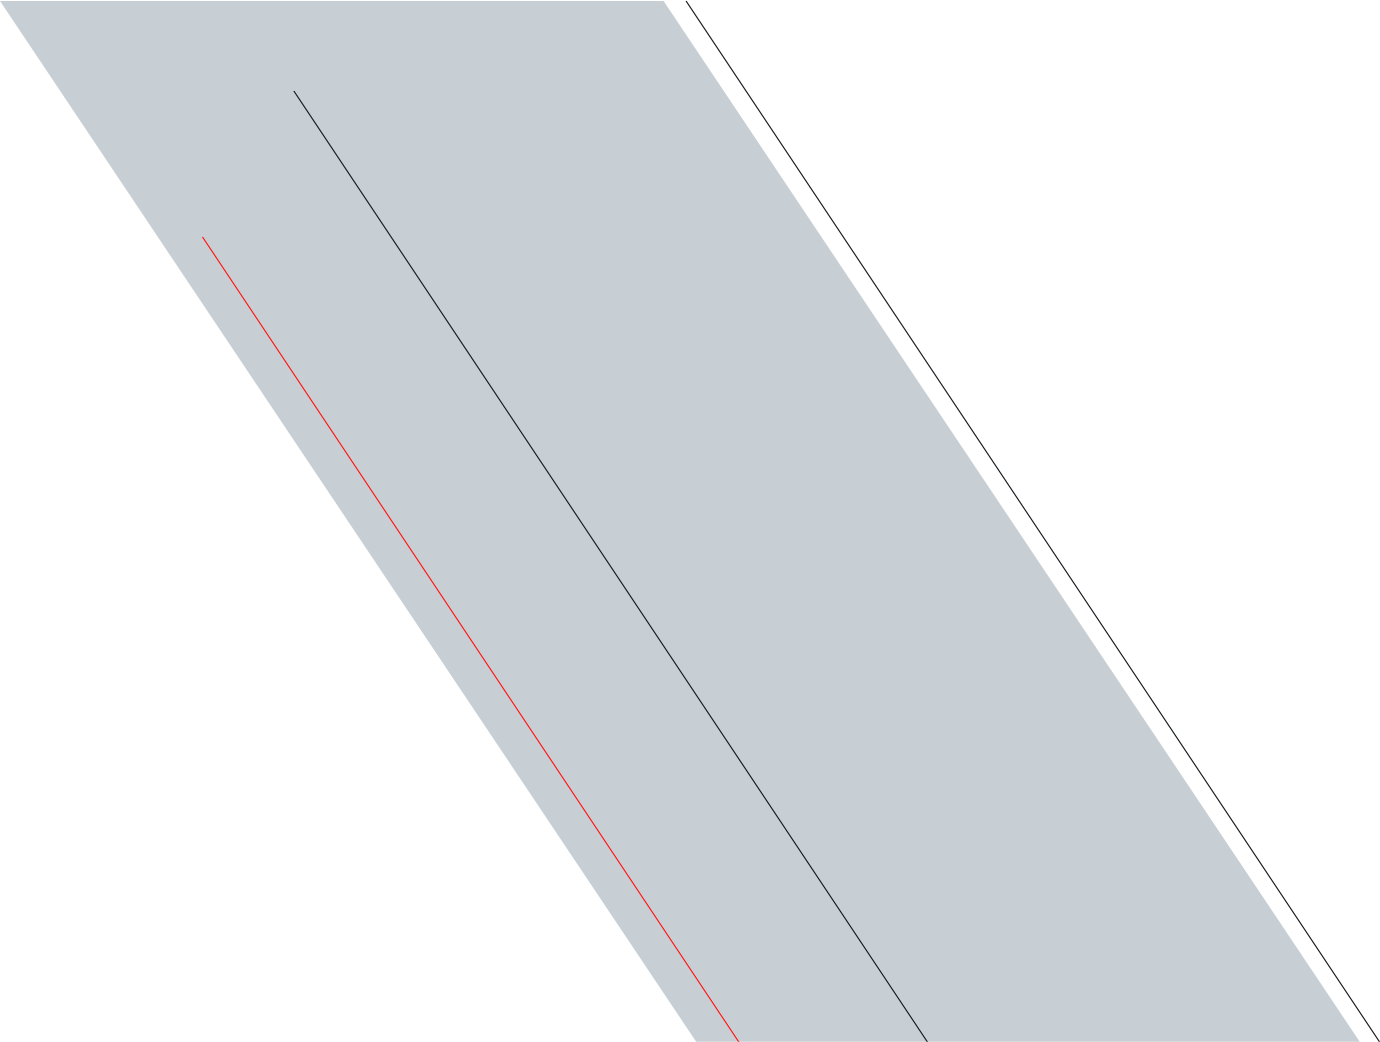
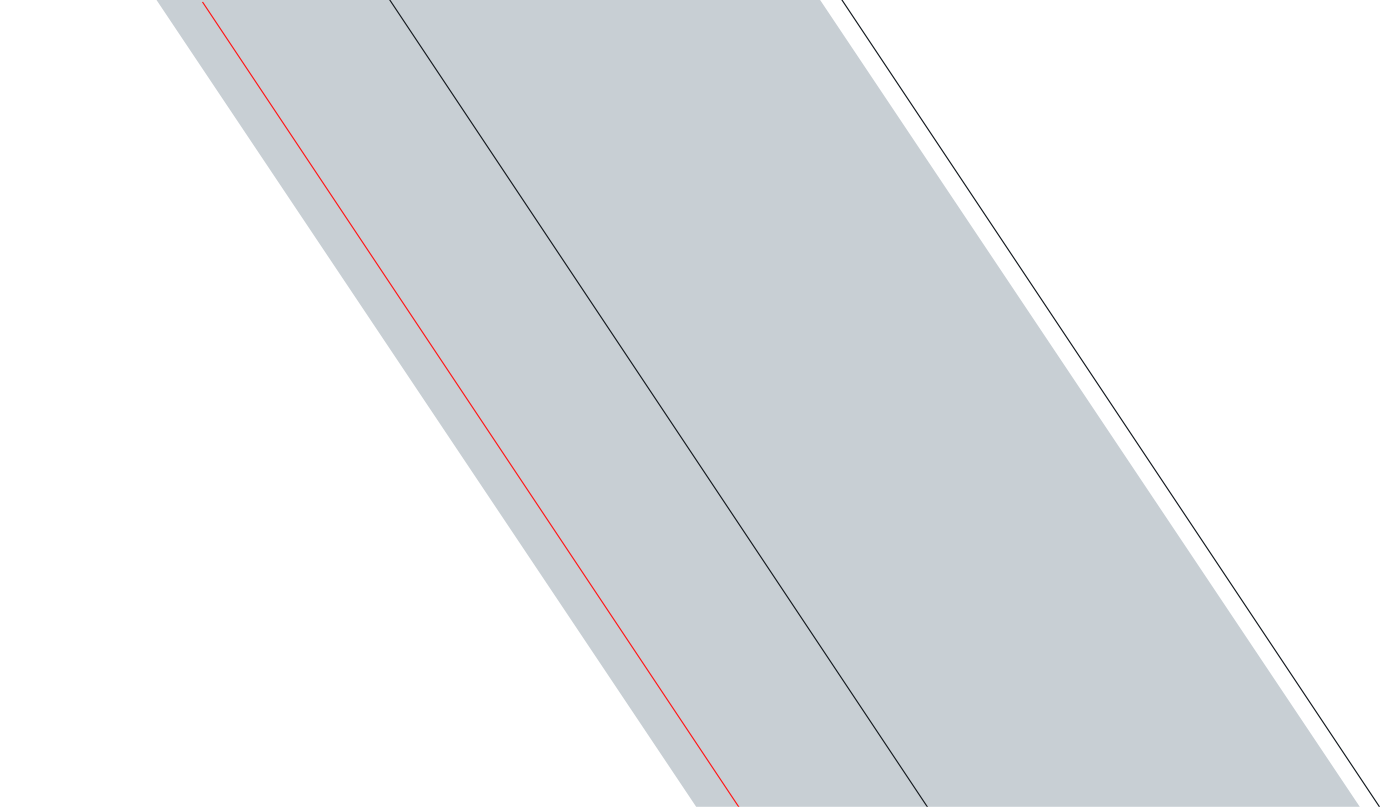
elev

diff --git a/js/common.js b/js/common.js
@@ -13,38 +13,68 @@ $(function(){
         prevArrow: '<i class="fa fa-chevron-left" aria-hidden="true"></i>',
         nextArrow: '<i class="fa fa-chevron-right" aria-hidden="true"></i>'
 	});
-	if($(window).width() > 1024)
-{
 
-   $('body').parallax({
+// if($(window).width() > 1024)
+// {
 
-      'elements': [
-        {
-          'selector': '.paralax_block',
-          'properties': {
-            'x': {
-              'right': {
-                'initial': 150,
-                'multiplier': 0.04,
-                'unit': 'px',
-                'invert': false
-              }
-            },
-            'y': {
-              'top': {
-                'initial': 54,
-                'multiplier': 0.02,
-                'unit': 'px',
-                'invert': false
-              }
-            }
-          }
-        }
-      ]
-    });
+//    $('body').parallax({
 
-} else {
-   // change functionality for larger screens
-}
+//       'elements': [
+//         {
+//           'selector': '.paralax_block',
+//           'properties': {
+//             'x': {
+//               'right': {
+//                 'initial': 54,
+//                 'multiplier': 0.02,
+//                 'unit': 'px',
+//                 'invert': false
+//               }
+//             },
+//             'y': {
+//               'top': {
+//                 'initial': 54,
+//                 'multiplier': 0.04,
+//                 'unit': 'px',
+//                 'invert': false
+//               }
+//             }
+//           }
+//         }
+//       ]
+//     });
 
+// } else {
+//    // change functionality for larger screens
+// }
+// $(window).scroll(function() {
+// 	$('.paralax_block').each(function(){
+// 		var $bgobj = $(this);
+// 		$bgobj.css({ 'left': '1%' });
+// 	});
+// });
 });
+// $(document).ready(function(){
+// 	// Кешируем объект окна
+// 	$window = $(window);
+                
+//    $('.paralax_block').each(function(){
+//      var $bgobj = $(this); // Назначаем объект
+                    
+//       $(window).scroll(function() {
+                    
+// 		// Прокручиваем фон со скоростью var.
+// 		// Значение yPos отрицательное, так как прокручивание осуществляется вверх!
+// 		var yPos = ($window.scrollTop() / $bgobj.data(900)); 
+		
+// 		// Размещаем все вместе в конечной точке
+// 		var coords = '50% '+ yPos + 'px';
+
+// 		// Смещаем фон
+// 		$bgobj.css({ left: coords });
+		
+// 	}); 
+
+//  });	
+
+// }); 

diff --git a/css/style.css b/css/style.css
@@ -53,12 +53,16 @@ html {
 
 body {
   background: #f6f5f5;
-  position: relative; }
+  position: relative;
+  overflow-x: hidden; }
 
 .paralax_block {
   position: absolute;
   z-index: -99;
-  left: -20%; }
+  height: 1100px;
+  width: 2000px;
+  left: -40%;
+  background: url(../img/bg_abs.png) left calc(-211px - 87px) top calc(50%)/auto auto no-repeat fixed; }
 
 .container {
   max-width: 955px;
@@ -420,17 +424,38 @@ header {
       -ms-flex-pack: center;
           justify-content: center; }
   #projects .proj_wrap .proj_list {
-    width: 100%; }
+    width: 100%;
+    position: relative; }
+    #projects .proj_wrap .proj_list:hover .hov_proj {
+      display: block; }
+    #projects .proj_wrap .proj_list .hov_proj {
+      position: absolute;
+      display: none;
+      top: 0px;
+      left: 0;
+      right: 0;
+      bottom: 5px;
+      background: rgba(0, 0, 0, 0.5); }
+      #projects .proj_wrap .proj_list .hov_proj img {
+        text-align: center;
+        position: absolute;
+        top: 50%;
+        left: 50%;
+        -webkit-transform: translate(-50%, -50%);
+                transform: translate(-50%, -50%); }
     #projects .proj_wrap .proj_list .proj_list__img {
       width: 100%; }
       #projects .proj_wrap .proj_list .proj_list__img img {
         width: 100%;
-        height: auto; }
+        height: auto;
+        border-bottom: 3px solid #ff1516; }
 
-#about .about_wrap {
-  display: -webkit-box;
-  display: -ms-flexbox;
-  display: flex; }
+#about {
+  border-top: 3px solid red; }
+  #about .about_wrap {
+    display: -webkit-box;
+    display: -ms-flexbox;
+    display: flex; }
 
 #skills {
   background: #f6f5f5;

diff --git a/sass/style.sass b/sass/style.sass
@@ -64,12 +64,19 @@ html
 // img
 // 	max-width: 100%
 body
-	background: #f6f5f5
+	background:  #f6f5f5
 	position: relative
+	overflow-x: hidden
+	// background: url(../img/bg_abs.png) left -211px top calc(50% + 87px) / auto auto no-repeat fixed, #f6f5f5
+	
 .paralax_block
 	position: absolute
 	z-index: -99
-	left: -20%
+	height: 1100px
+	width: 2000px
+	left: -40%
+	background: url(../img/bg_abs.png) left calc(-211px - 87px) top calc(50%) / auto auto no-repeat fixed
+	// background-attachment: fixed
 	// height: 
 	// background: url(../img/bg_abs.png)
 .container
@@ -414,6 +421,7 @@ header
 				border: 0
 				cursor: pointer
 #projects
+	// border-bottom: 3px solid #ff1516
 	h2
 		color: #000000
 		font-family: 'Montserrat', sans-serif
@@ -425,14 +433,42 @@ header
 	.proj_wrap
 		display: flex
 		justify-content: center
+		// border-bottom: 3px solid #ff1516
+
 		.proj_list
 			width: 100%
+			position: relative
+			// border-bottom: 3px solid #ff1516
+			// height: 100%
+			// border-bottom: 3px solid red
+			&:hover
+				.hov_proj
+					display: block
+					
+			.hov_proj
+				position: absolute
+				display: none
+				top: 0px
+				left: 0
+				right: 0
+				bottom: 5px
+				background: rgba(0, 0, 0, .5)
+				img
+					text-align: center
+					position: absolute
+					top: 50%
+					left: 50%
+					transform: translate(-50%, -50%)
 			.proj_list__img
 				width: 100%
+				// height: 295.8px
+				// border-bottom: 3px solid #ff1516
 				img
 					width: 100%
 					height: auto
+					border-bottom: 3px solid #ff1516
 #about
+	border-top: 3px solid red
 	.about_wrap
 		display: flex																	
 #skills

diff --git a/index2.html b/index2.html
@@ -11,7 +11,7 @@
 </head>
 <body>
 	<div class="paralax_block">
-		<img src="img/bg_abs.png">
+		<!-- <img src="img/bg_abs.png"> -->
 	</div>
 	<header>
 		<div class="logo">
@@ -202,21 +202,30 @@
 	<section id="projects">
 		<h2>Выполненные проекты "под ключ"</h2>
 		<div class="proj_wrap">
-			<div class="proj_list">
+			<a class="proj_list" href="">
 				<div class="proj_list__img">
 					<img src="img/ls.png" alt="">
 				</div>
-			</div>
-			<div class="proj_list">
+				<div class="hov_proj">
+					<img src="img/eye.png">
+				</div>
+			</a>
+			<a class="proj_list" href="">
 				<div class="proj_list__img">
 					<img src="img/ls2.png" alt="">
 				</div>
-			</div>
-			<div class="proj_list">
+				<div class="hov_proj">
+					<img src="img/eye.png">
+				</div>
+			</a>
+			<a class="proj_list" href="">
 				<div class="proj_list__img">
 					<img src="img/ls3.png" alt="">
 				</div>
-			</div>
+				<div class="hov_proj">
+					<img src="img/eye.png">
+				</div>
+			</a>
 		</div>
 	</section>
 <!-- 	<section id="about">
